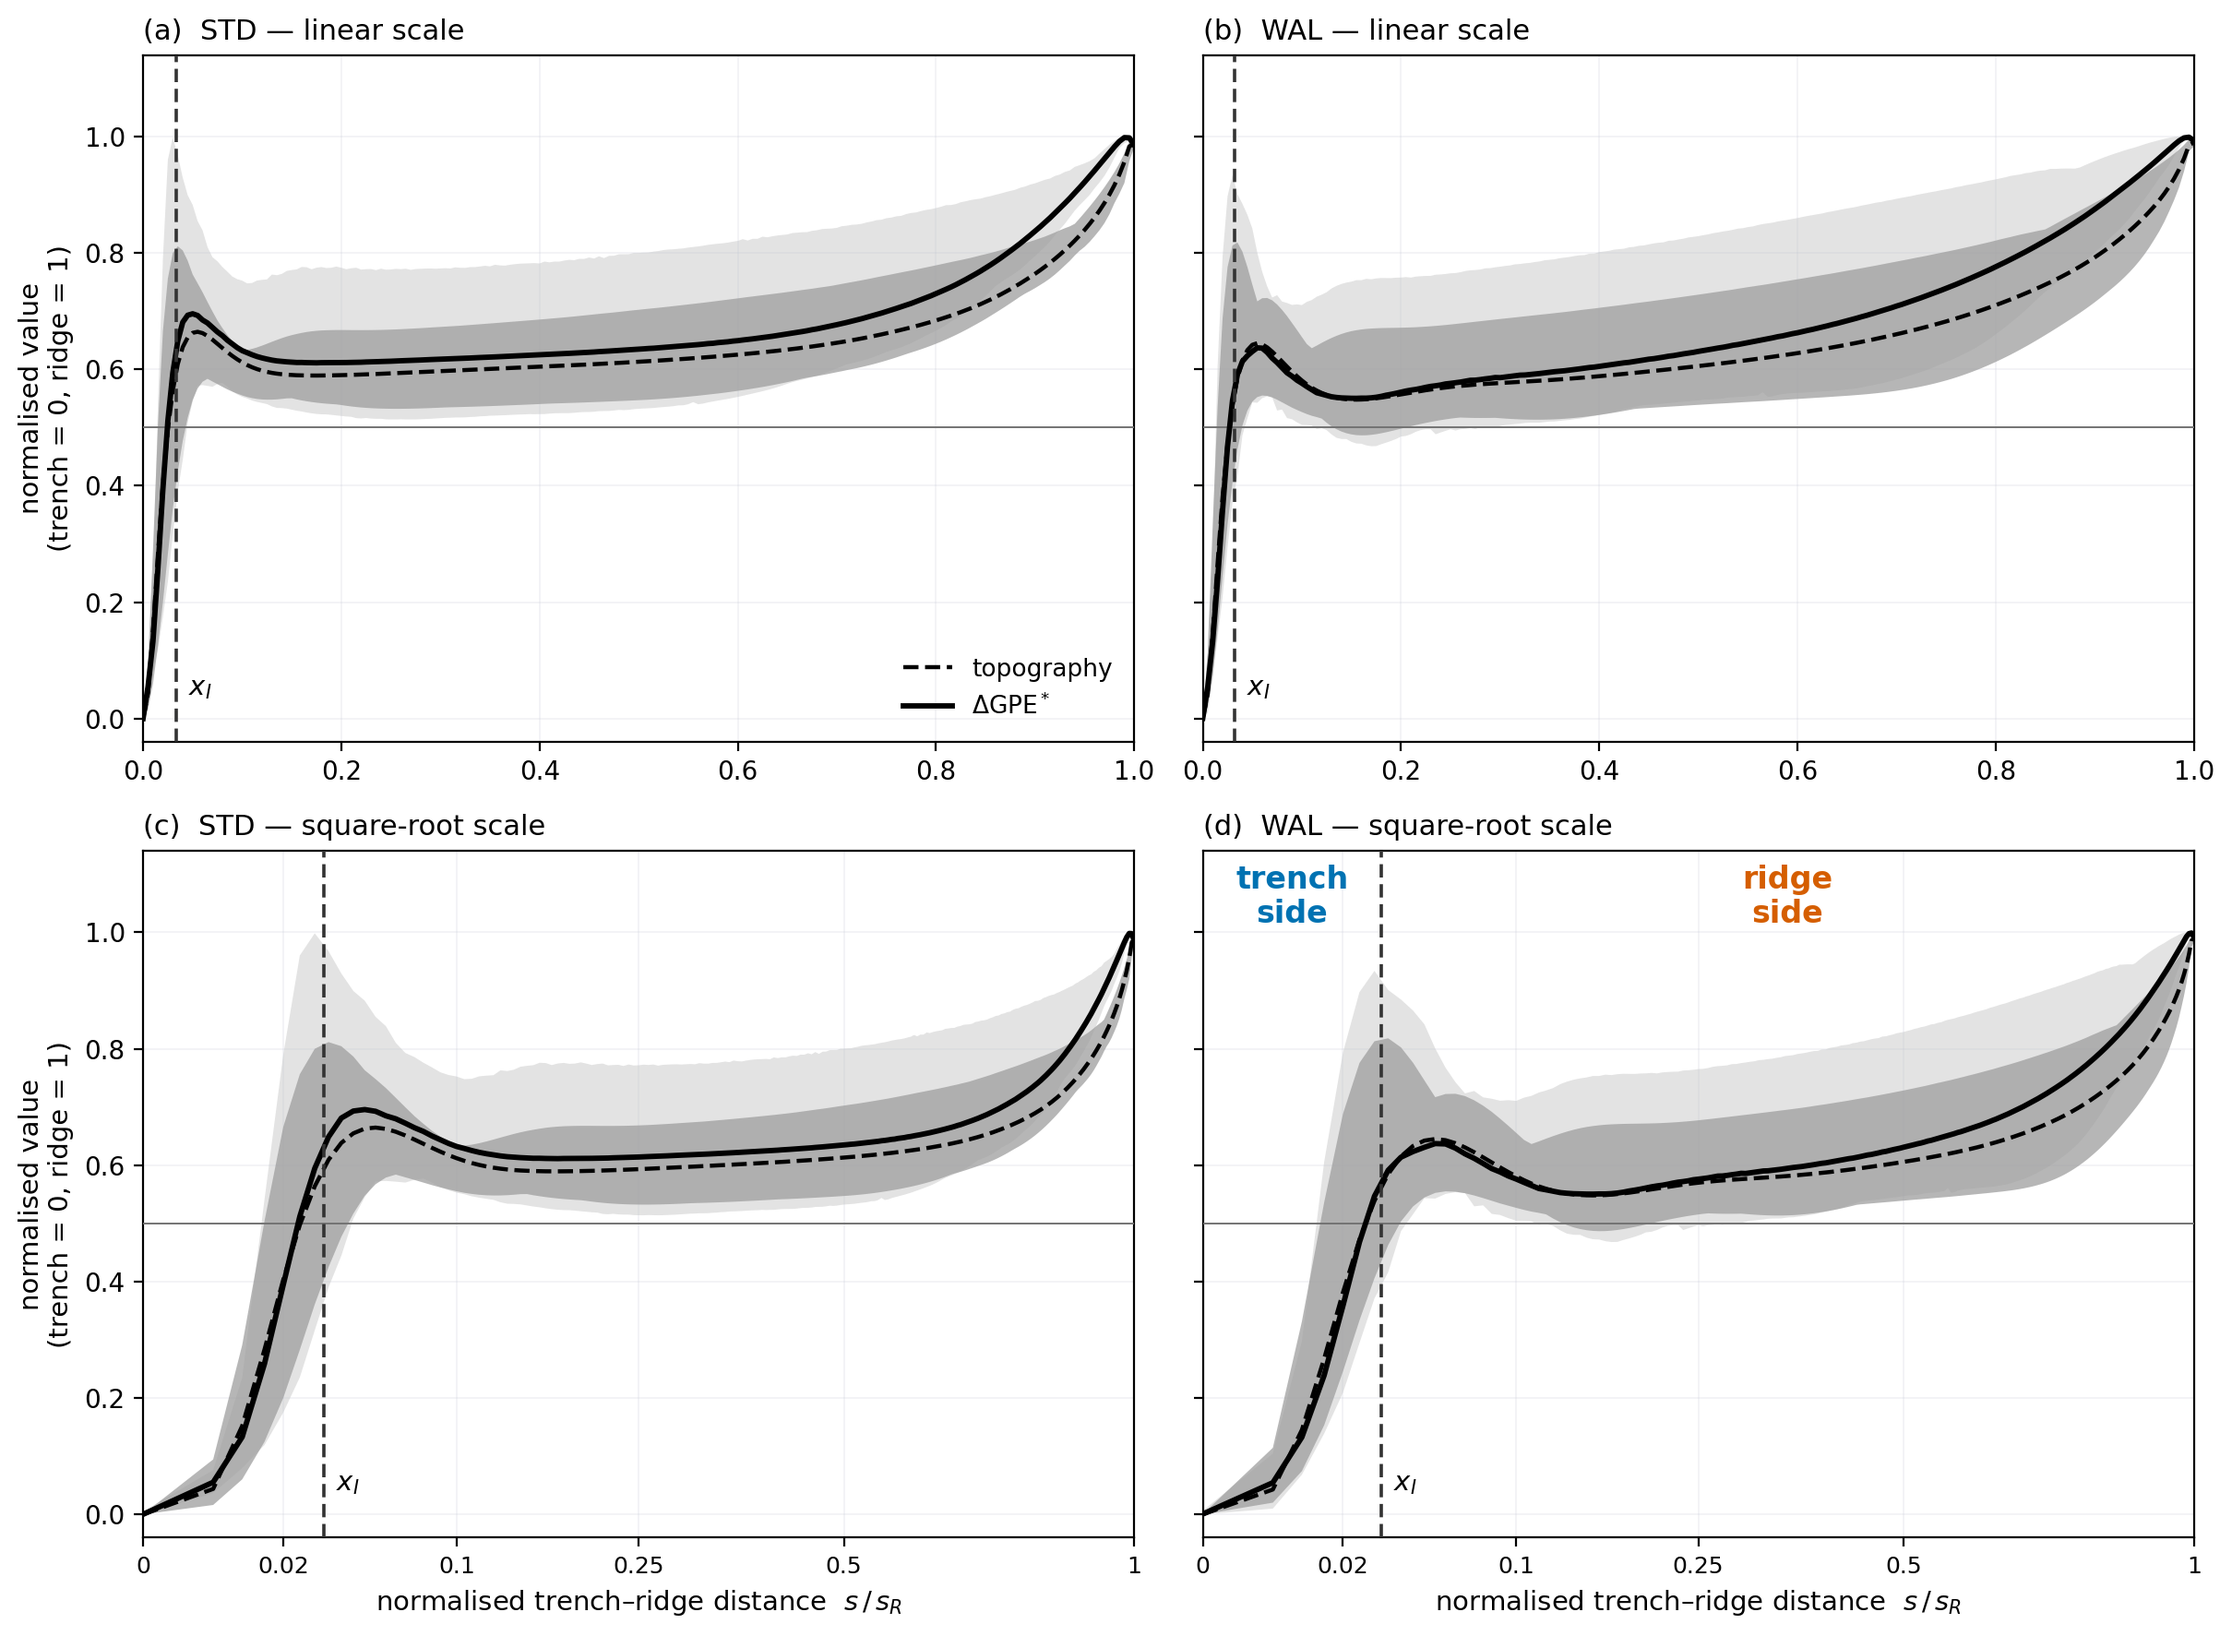
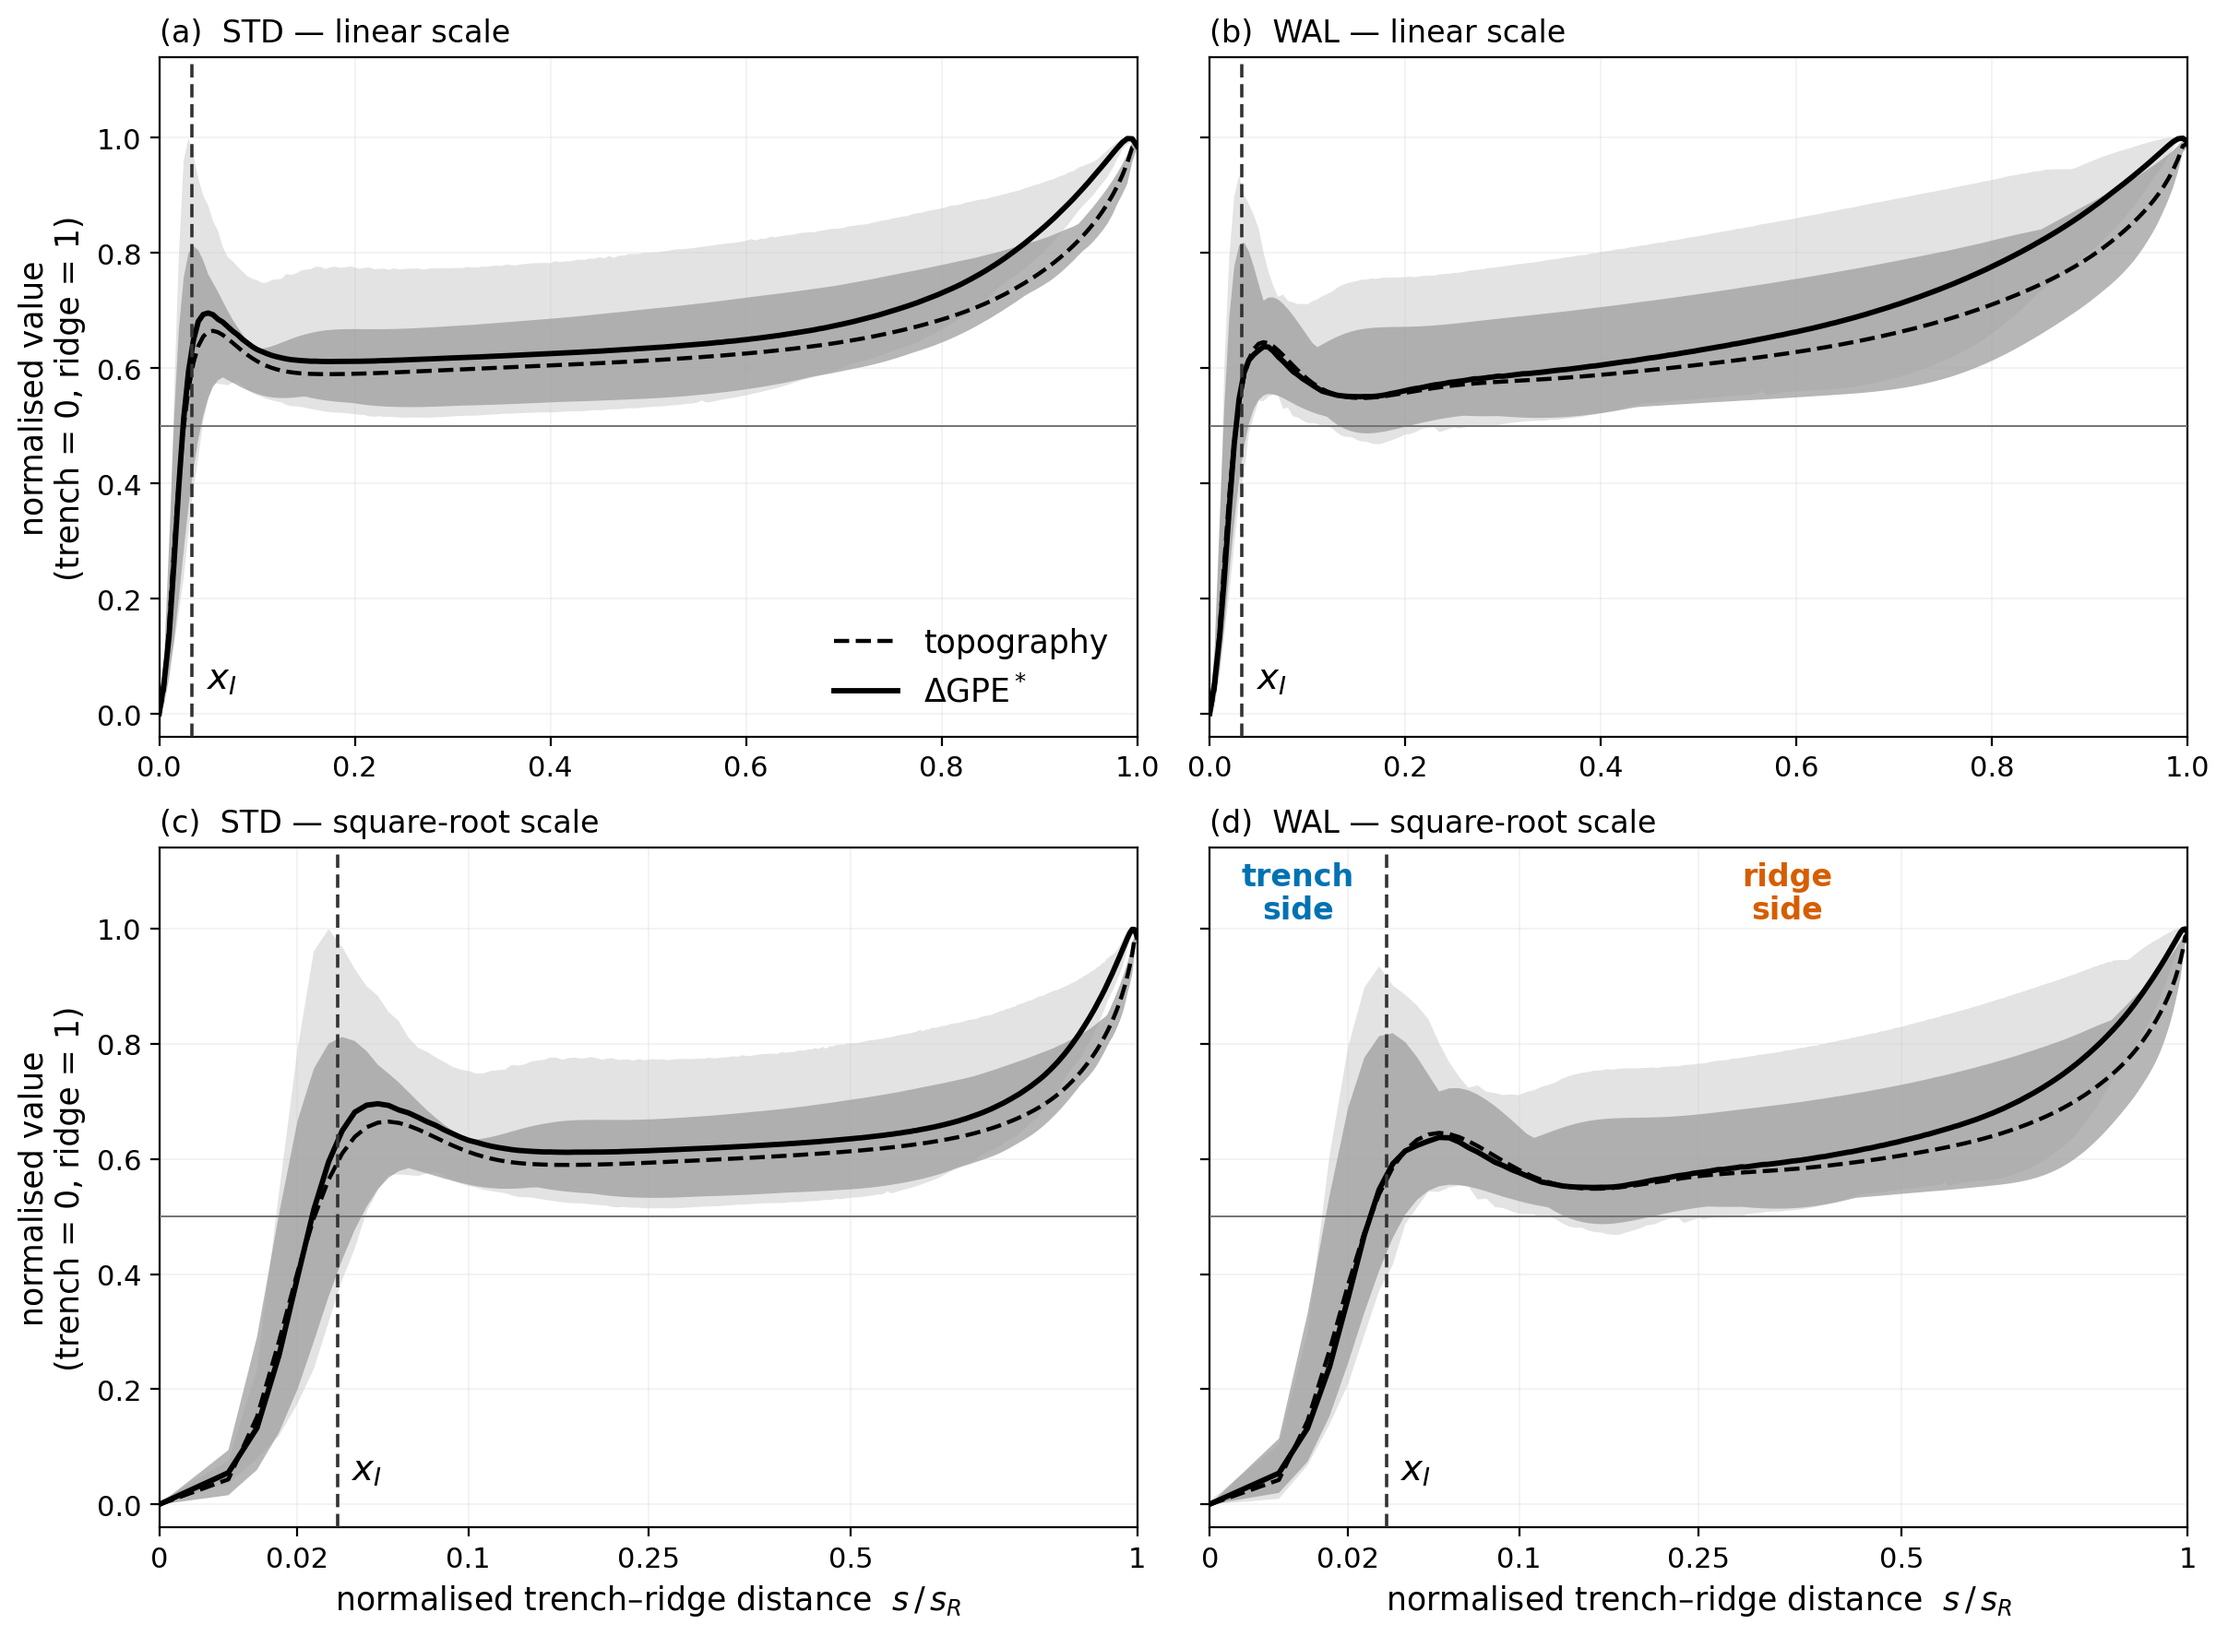
Figure 1: the small text comes up
At 0.75 textwidth across two columns the axis furniture was too small to
read, and x_I -- a column the caption leans on three times -- was the
smallest text on the figure.

  x_I marker            10.5 -> 14
  axis labels           10.5 -> 12.5
  numeric tick labels   default 10 -> 11
  square-root ticks      9   -> 11
  legend                 9.5 -> 12.5
  panel titles          11   -> 12

Nothing else changed: same curves, same bands, same limits.

diff --git a/scripts/fig_headline_tracking.py b/scripts/fig_headline_tracking.py
@@ -238,7 +238,7 @@ def render(cache_path, fig_path):
             # of the trench-to-ridge rise is already achieved by x_I
             ax.axhline(0.5, color='0.45', lw=0.7, zorder=3)
             ax.axvline(xi, color='0.2', lw=1.3, ls=(0, (4, 2)), zorder=5)
-            ax.text(xi + 0.012, 0.03, '$x_I$', fontsize=10.5,
+            ax.text(xi + 0.014, 0.03, '$x_I$', fontsize=14,
                     va='bottom', ha='left')
             # DOMAIN LABELS ON THE SQUARE-ROOT ROW ONLY. On the linear axis
             # the trench side is 3 % of the width; the label needs a leader,
@@ -263,16 +263,17 @@ def render(cache_path, fig_path):
                         fontweight='bold')
             if mode == 'sqrt':
                 ax.set_xticks(np.sqrt(TICKS_SQ))
-                ax.set_xticklabels([f'{v:g}' for v in TICKS_SQ], fontsize=9)
+                ax.set_xticklabels([f'{v:g}' for v in TICKS_SQ], fontsize=11)
             ax.set_xlim(0, 1); ax.set_ylim(-0.04, 1.14)
+            ax.tick_params(labelsize=11)
             ax.grid(alpha=0.22, color=C_RULE if 'C_RULE' in globals()
                     else '#BFC3D1', lw=0.6)
             ax.set_title(f'({"abcd"[i * 2 + j]})  {KEY} — '
                          f'{"linear" if mode == "linear" else "square-root"}'
-                         f' scale', fontsize=11, loc='left')
+                         f' scale', fontsize=12, loc='left')
             if i:
                 ax.set_xlabel(r'normalised trench–ridge distance  '
-                              r'$s\,/\,s_R$', fontsize=10.5)
+                              r'$s\,/\,s_R$', fontsize=12.5)
             if j:
                 ax.tick_params(labelleft=False)
 
@@ -303,8 +304,8 @@ def render(cache_path, fig_path):
                  (KEY, 's_R_km_max', f'{(xT - xR).max() / 1e3:.0f}')]
     for i in range(2):
         axes[i, 0].set_ylabel('normalised value\n(trench = 0, ridge = 1)',
-                              fontsize=10.5)
-    axes[0, 0].legend(frameon=False, fontsize=9.5, loc='lower right')
+                              fontsize=12.5)
+    axes[0, 0].legend(frameon=False, fontsize=12.5, loc='lower right')
     fig.tight_layout()
     fig.savefig(fig_path, dpi=200, bbox_inches='tight')
     print('wrote', fig_path)
